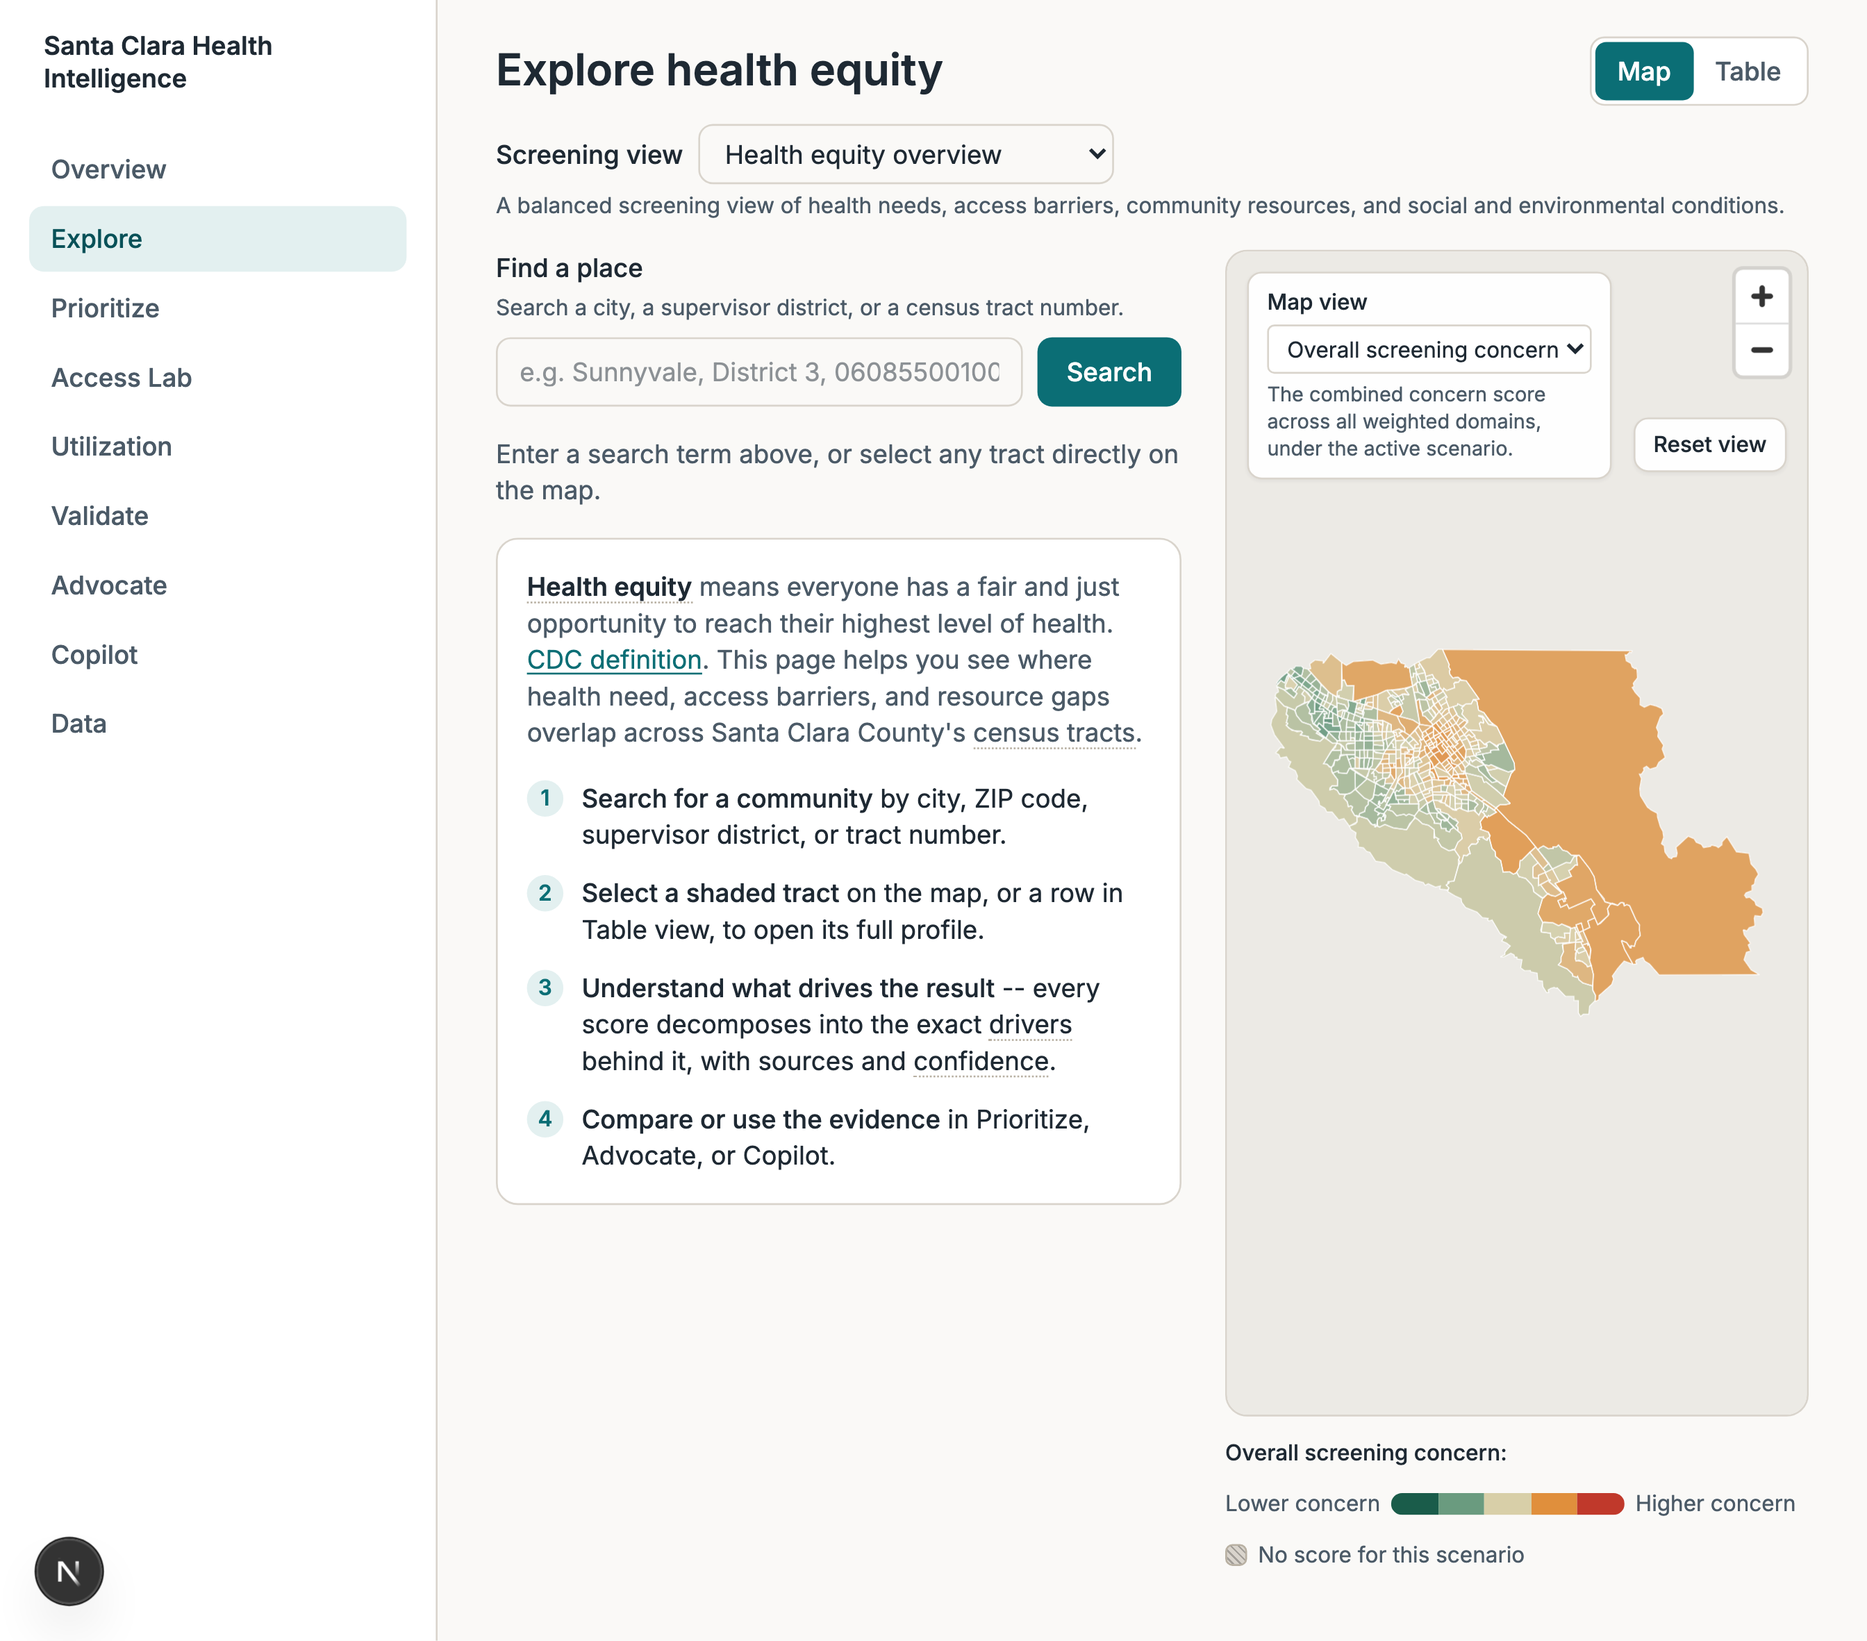
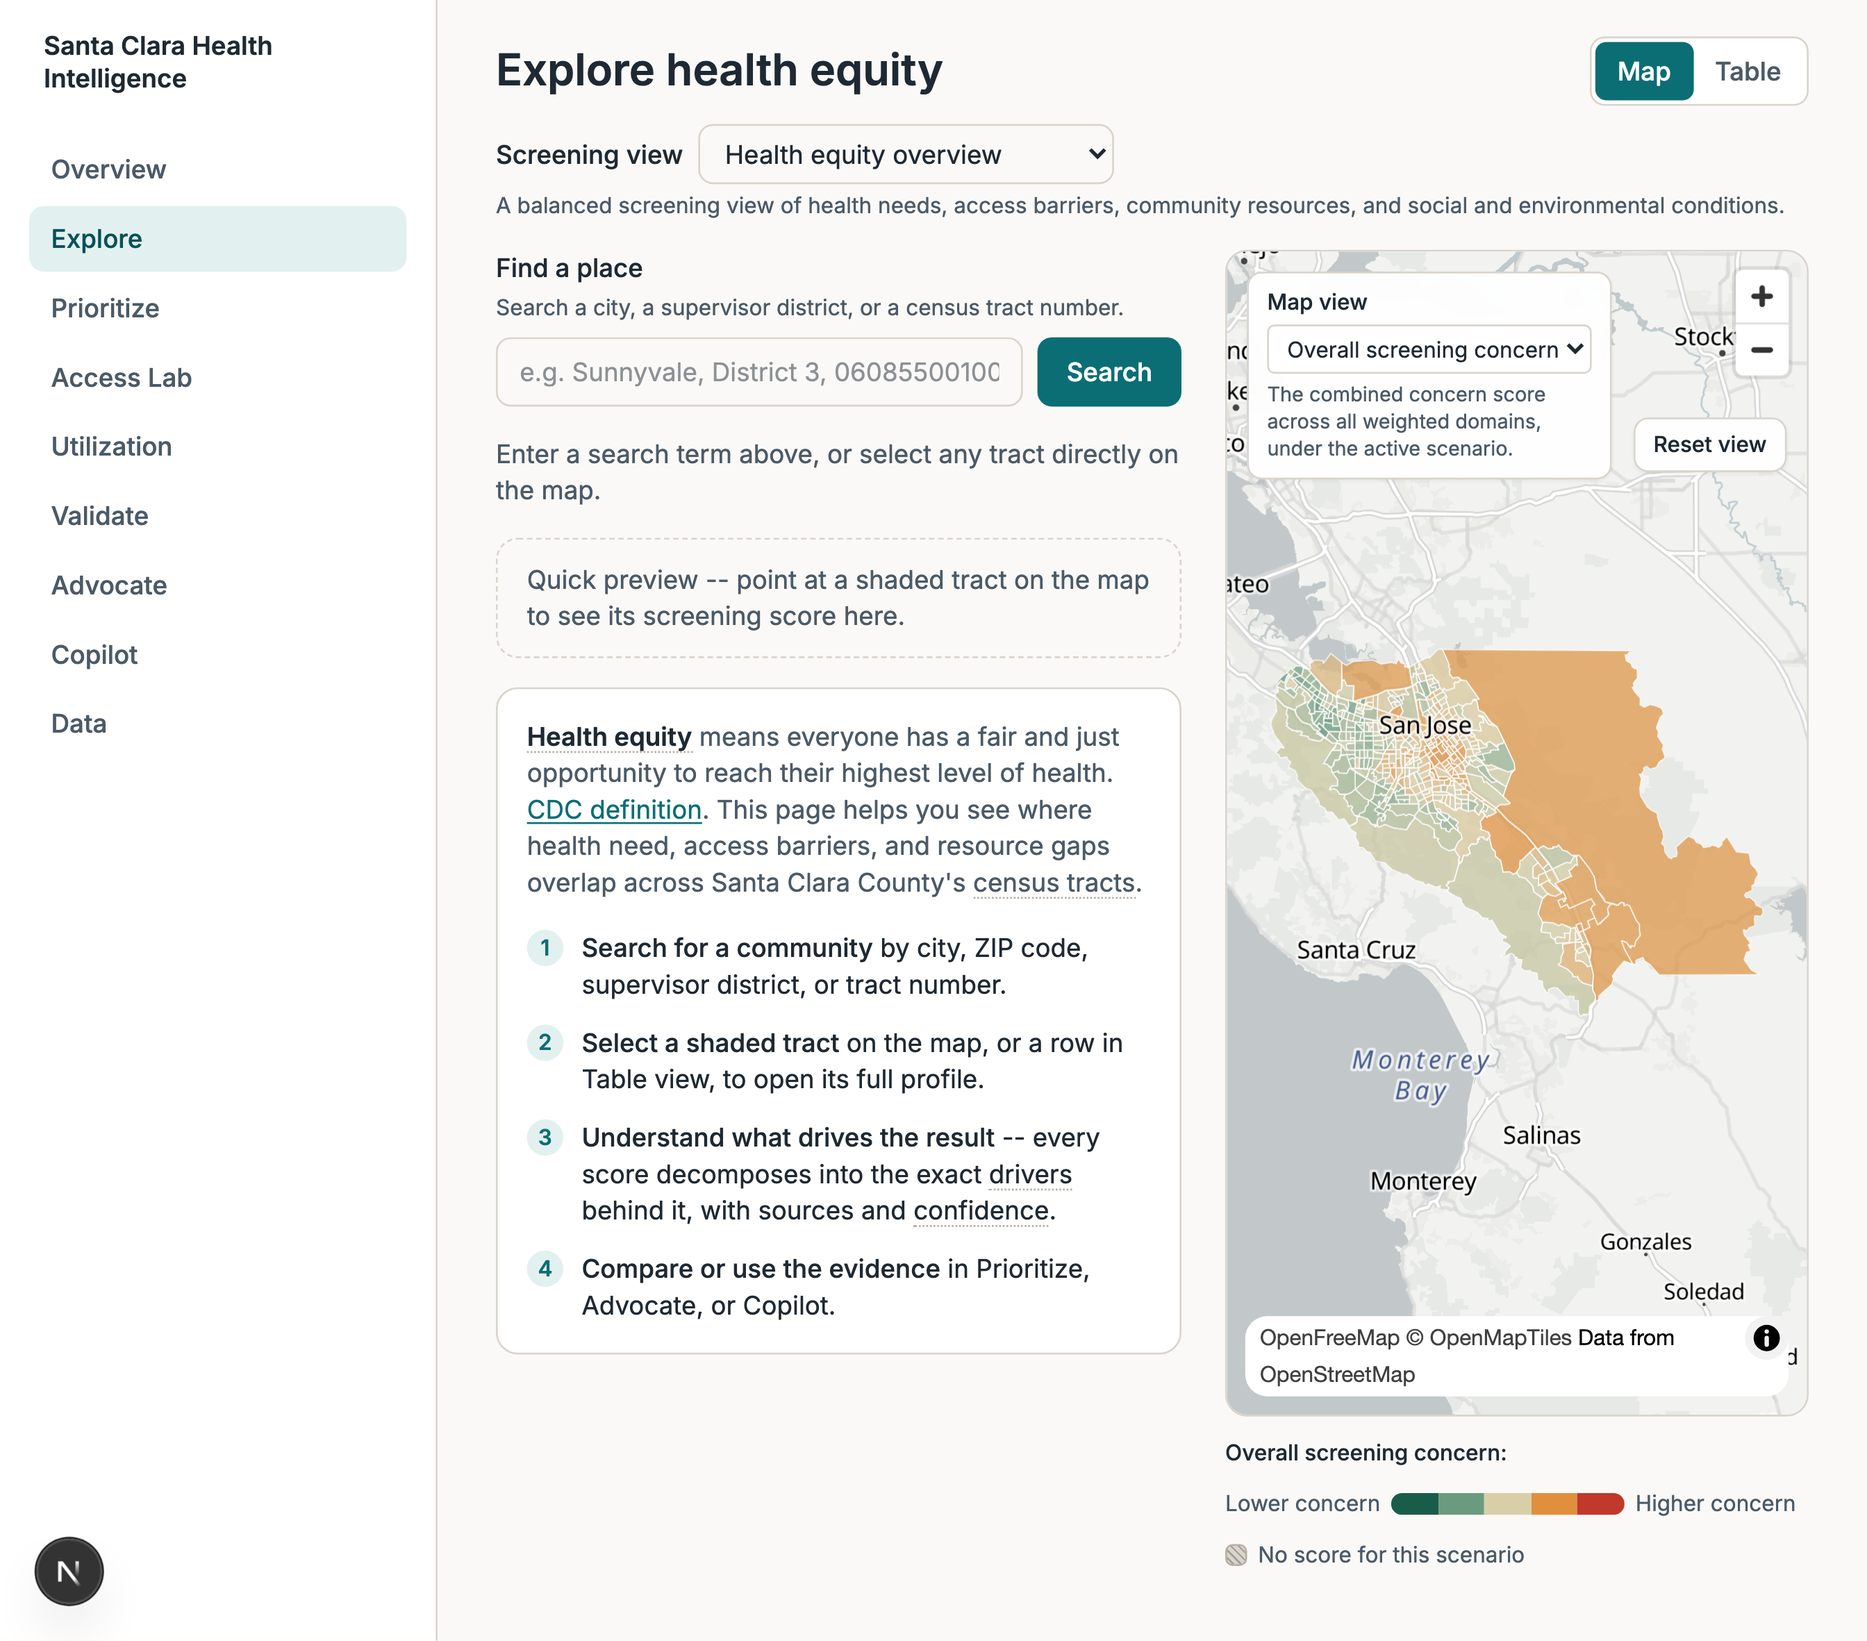
Complete usability, accessibility, and visual verification
Three independent blind usability-review subagents (desktop Explore,
mobile Explore, Prioritize/Compare), each given only screenshots, a
one-sentence product purpose, and a fixed question list -- no
implementation explanation. Two findings independently corroborated by
more than one reviewer, both fixed:

1. A genuine internal-consistency bug: three Prioritize rows all
   displayed "75/100" but two read "High concern" and one read
   "Moderate-to-high concern," because the concern band was computed
   from the raw unrounded score while the displayed number was rounded.
   Fixed by computing the band from the same rounded value in the one
   shared ScreeningScore component, so the fix applies everywhere.
2. "Higher screening concern than 100% of 408 tracts" read as a literal
   claim of being higher-concern than every tract including itself,
   especially next to a tie for rank #1. Reworded the >=99% case to
   "Among the highest screening concern of any tract in the county"
   without changing the underlying statistic.

Full verification: frontend lint/typecheck/98 unit tests, backend
ruff/mypy/470 pytest, production build (zero new dependencies), and the
complete Playwright suite (both desktop-chromium and mobile-chromium
projects) at 456 total / 426 passed / 30 skipped / 0 failed. One axe
flake (document-title) was isolated and confirmed non-reproducible (3
clean re-runs) before being excluded from the failure count.
[…]

diff --git a/docs/design/final-score-map-and-intuitiveness-review.md b/docs/design/final-score-map-and-intuitiveness-review.md
@@ -1,0 +1,180 @@
+# Final Score, Map-Context, and Product-Intuitiveness Pass — Visual & Usability Review
+
+Companion to [health-equity-product-consolidation.md](./health-equity-product-consolidation.md) (prior pass)
+and [docs/methods/screening-score-interpretation.md](../methods/screening-score-interpretation.md) (the
+required scientific trace of the score, written before it was elevated visually). This document records
+what changed in this pass, what independent blind usability review found, and what was fixed as a result.
+
+## 1. What this pass changed, in one paragraph
+
+The 0-100 composite score — traced, bounded, and documented in the methods doc — is now the product's single
+objective headline number, rendered everywhere through one shared component (`packages/ui/src/
+ScreeningScore.tsx`) instead of five independent, inconsistently-rounded formatting call sites. The map
+gained real geographic context (a free, keyless OpenStreetMap-derived basemap with city/road/water labels,
+inserted below the choropleth so labels are never covered) where previously it rendered on a completely
+blank background. Hover now updates a sidebar "Quick preview" while nothing is selected, keeping the map
+fully unobscured, and switches to a small non-blocking map callout once a tract is selected so the sidebar's
+open profile is never erased by hovering a neighbor. The top-3 driving factors gained a visual percentile
+track matching the domain rows. None of this touched scenario weights, internal scenario IDs, or the score
+formula itself.
+
+## 2. Screenshots inspected
+
+All from `docs/design/screenshots/`, regenerated by this pass's own Playwright run (2026-07-18):
+
+- **`explore-map__1440-desktop.png`** — county view, no selection. Real city labels (San Jose, Gilroy, Santa
+  Cruz, Watsonville, Hollister, Fremont), roads, water/coastline shading, "Quick preview" placeholder in the
+  sidebar, choropleth colors rendering above the basemap fill but below its labels.
+- **`explore-tract-detail__1440-desktop.png`** — a selected tract (06085503112) at close zoom. Real street
+  names (South 10th/11th, Story Road, Monterey Road, Willow Street), a neighborhood label ("SPARTAN KEYES"),
+  the tract's dashed selection outline, and a compact map callout ("06085503112 / 77/100 · High concern").
+  Sidebar shows the full headline hierarchy: `77/100` → `HEALTH EQUITY SCREENING SCORE` caption → `High
+  overlapping screening concern` → county-comparison sentence → always-visible non-causal disclaimer → 5
+  domain rows with visual bars → top-3 factors.
+- **`explore-tract-detail__390-mobile.png`** — same hierarchy in the bottom sheet; collapsed bar beneath
+  shows `77/100 · High concern · #1 countywide`.
+- **`prioritize__1440-desktop.png`** / **`prioritize__390-mobile.png`** — ranked table with `Score rank`,
+  `Health equity screening score` (compact `ScreeningScore`), `Data coverage`, `Stability` columns; scenario
+  radio list on the left.
+- Live-interaction screenshots captured directly in this pass (not part of the standing screenshot set):
+  the Explore comparison view (`?compare=1`) showing two tracts' scores side by side via the same compact
+  `ScreeningScore`, and a mid-zoom map view (Sunnyvale/Cupertino/San Jose/Milpitas/Campbell/Saratoga/Los
+  Gatos all labeled) confirming city labels scale correctly between county and neighborhood zoom.
+
+## 3. City-label and map-context behavior
+
+**Root cause found before implementing anything**: the map had no basemap at all — `style: { version: 8,
+sources: {}, layers: [{id: "bg", type: "background", ...}] }`. This is more severe than the task's assumed
+starting point ("labels exist but are hidden beneath the fill"); there were no labels, roads, or water to
+hide in the first place.
+
+**Solution implemented (Option A/B hybrid, per the task's own preference order)**: added OpenFreeMap's free,
+keyless, OSM-derived "positron" vector style (`https://tiles.openfreemap.org/styles/positron`) as the
+basemap, then inserted every tract layer (`fill`, `no-data-hatch`, `outline`) with `beforeId` set to the
+basemap's first symbol layer (`waterway_line_label`) so all 19 of the basemap's label layers — including
+`label_city`/`label_town` (min-zoom 3–9, OpenMapTiles' own population/importance-ranked place layer) —
+render above the choropleth. A dedicated custom label layer sourced from `geo.places` (real TIGER place
+centroids, already in the warehouse) was evaluated but judged unnecessary once the basemap's own city labels
+were verified live to already include all 11 target cities correctly prioritized (San Jose ranks first by
+real land area in the warehouse's own `geo.places.area_land_sqm`, confirming the basemap's own OSM-based
+importance ranking agrees with locally-held data). The selected-tract outline (`SELECTED_LAYER`) and the
+selected-place dashed boundary are deliberately appended **without** `beforeId`, staying above every label,
+so they remain visible even where a city/road label sits over the same tract.
+
+**Attribution**: `AttributionControl({ compact: true })` — MapLibre auto-collects "OpenFreeMap © OpenMapTiles
+Data from OpenStreetMap" from the tile source's own metadata. An earlier attempt to also hand-write a custom
+attribution string produced a visible duplicate credit line; removed once the auto-collected one was
+confirmed sufficient on its own.
+
+**A real, non-cosmetic bug found and fixed during implementation**: under React Strict Mode's dev-only
+double mount/cleanup/mount cycle, listening only for MapLibre's `load` event to set `mapReady` never fired
+for a *remote* style URL — the map still rendered tiles correctly, but `mapReady` silently stayed `false`
+forever, so the tract choropleth layer was never added. Fixed by also listening for `idle` and checking
+`isStyleLoaded()` synchronously as two additional, redundant readiness signals.
+
+**City-label acceptance criteria, verified live**: at county zoom, San Jose, Gilroy, Santa Cruz, Watsonville,
+Hollister, and Fremont are all labeled; at closer zoom (Sunnyvale/Cupertino level), more cities appear
+(Milpitas, Campbell, Saratoga, Los Gatos); at close, single-tract zoom, road names and a neighborhood label
+appear instead, with the selection outline remaining visually distinct throughout.
+
+## 4. Hover/selection interaction model — evaluated and chosen
+
+Per the task's request to evaluate at least three alternatives, not just keep the existing implementation:
+
+1. **Sidebar-docked hover preview** (chosen for the no-selection state): the map stays completely
+   unobscured; a "Quick preview" panel in the sidebar updates on hover, showing name, the canonical score
+   (compact `ScreeningScore`), top-2 domains, and a confidence flag when coverage is thin.
+2. **Collision-aware floating inspector** (the prior pass's design): kept, but only for the *selected* state,
+   and shrunk substantially (240px → 180px, dropped the "top domains" and "select for full profile" lines)
+   since with a profile already open in the sidebar, a hovered neighbor only needs a name and a concern
+   indicator, not a repeat of the sidebar's own job.
+3. **Tiny polygon callout plus sidebar preview** (the actual hybrid implemented): no-selection state uses
+   alternative 1; selected state uses a shrunk version of alternative 2 (`TinyHoverCallout`) so hovering a
+   different tract never erases the open profile.
+
+Verified live: hovering a tract with nothing selected updates only the sidebar, leaving the map's colors and
+labels fully visible with no floating card. Selecting a tract and then hovering a *different* tract keeps
+the sidebar's open profile intact and shows only a small map-anchored callout for the hovered tract.
+
+## 5. Score consistency audit
+
+Traced in [screening-score-interpretation.md](../methods/screening-score-interpretation.md); before this
+pass, the same underlying float was rounded to the nearest integer in Explore, one decimal in Prioritize, and
+two decimals in CSV exports, and the tract-detail "percentile" was actually a Monte Carlo median-rank
+transform rather than a percentile of the score itself (already correctly resolved in an earlier pass by
+removing the competing map-side number, and reaffirmed here as the one canonical comparison statistic).
+This pass centralizes every human-facing rendering through `ScreeningScore`/`formatScreeningScore`
+(`packages/ui/src/ScreeningScore.tsx`) in: Explore's headline, mobile collapsed bar, map hover/selection
+callouts, Prioritize's table and CSV-adjacent decision-memo preview, Explore's tract-to-tract comparison
+panel, and Advocate's server-side evidence label (`apps/api/.../services/advocacy_evidence.py`, updated to
+round to the same integer convention and use the same "Health equity screening score" label text). Raw,
+higher-precision values remain available in the CSV export and the "How this was calculated" disclosure,
+explicitly labeled as secondary/technical, never presented as a second competing headline number.
+
+**Prioritize's "Rank" column bug, found during the scientific trace, fixed**: the column previously used
+TanStack Table's `row.index`, which is fixed to the array's original (score-sorted) position and does not
+reflect a re-sort — functioning correctly by construction (since "rank" means score-rank, not "position in
+whatever the table happens to be sorted by right now") but was undocumented and easy to misread as a live
+position. Relabeled `Score rank` with an inline comment explaining the fixed, score-based meaning.
+
+## 6. Blind usability review — three independent reviewers, real findings acted on
+
+Per the task's explicit instruction not to treat approval as evidence, three cold subagent reviewers were
+each given only screenshots, a one-sentence product purpose, and a fixed question list — no implementation
+explanation. Reviewer 1 covered desktop Explore, Reviewer 2 covered mobile Explore, Reviewer 3 covered
+Prioritize and the county-comparison sentence.
+
+**Two findings independently corroborated by more than one reviewer, both fixed**:
+
+1. **A genuine internal-consistency bug** (Reviewer 3, unprompted): three tracts in the Prioritize table all
+   displayed `75/100` but two read "High concern" while one read "Moderate-to-high concern." Root cause: the
+   concern band was computed from the *raw* unrounded score while the displayed number was rounded, so a raw
+   74.6 (displays as "75") could fall on the wrong side of the 75.0 band threshold from a raw 75.4 (also
+   displays as "75"). Fixed by computing the band from `Math.round(score)` — the same value shown — in both
+   the visual band and the accessible name, inside the one shared `ScreeningScore` component, so the fix
+   applies everywhere at once. Verified live: rows #6/#7/#8 now all read "75/100 · High concern" consistently.
+2. **Confusing ceiling phrasing** (Reviewers 1 and 2, independently): "Higher screening concern than 100% of
+   408 Santa Clara County tracts" reads as a literal claim of being higher-concern than every tract
+   *including itself*, especially confusing next to a tie for rank #1 in the Prioritize table. The underlying
+   statistic (Monte Carlo median-rank percentile) is legitimate and unchanged; only the sentence at the ≥99%
+   boundary changes, to "Among the highest screening concern of any tract in the county, out of 408 Santa
+   Clara County tracts."
+
+**One additional fix from a single reviewer's specific, concrete point** (Reviewer 3): the 0–100 direction
+("higher = more concern") was stated on the Explore tract-detail page but never on the Prioritize table where
+the score first appears as a sortable column. Added a one-line restatement directly under the Prioritize
+results summary.
+
+**Findings disclosed as known limitations, not fixed this pass** (single-reviewer, lower-severity, or
+requiring larger redesign — see §7).
+
+## 7. Known limitations
+
+- The five domain percentile bars (`PercentileBar`) have no visible numeric scale or endpoint labels beyond
+  the text sentence beneath them (Reviewer 1). The text sentence already states direction and relative
+  position in words; adding numeric tick labels to the bar itself was judged a larger visual-design change
+  than this pass's time budget supports.
+- On mobile, the map is almost entirely covered by the expanded bottom sheet, so the selected tract's city
+  is not nameable from the sheet view alone (Reviewer 2) — an inherent tradeoff of the two-state mobile sheet
+  pattern validated in an earlier pass, not newly introduced here.
+- A floating circular "N" button in the bottom-left corner of every screenshot (an unrelated, pre-existing
+  UI element, not part of this pass's scope) partially overlaps map/table content at some scroll positions
+  on mobile, per both Reviewer 1 and Reviewer 2. Not investigated or changed, since it predates and is
+  unrelated to the score/map/hover work in scope here.
+- "Data coverage" and "Stability" column headers in Prioritize have no inline tooltip explaining them
+  (Reviewer 3) — both concepts are explained in Validate's methods panel and in the tract-detail confidence
+  section, but not inline in the table itself.
+- Rank numbers in Prioritize remain strict ordinals even when scores tie (e.g., #1 and #2 both at 77) —
+  disclosed in the methods doc §10 as a pre-existing, cross-cutting tie-break inconsistency in the backend
+  (three different tie-break rules across different API routes), not something this UX-focused pass changed.
+- No dedicated screenshot exists for a full side-by-side tract Compare view or backend-waking/unavailable
+  states in the permanent screenshot set for this specific pass (a live-interaction screenshot of Compare was
+  captured and inspected directly instead, per §2; those states are covered by existing Playwright
+  assertions rather than static screenshots, consistent with the prior pass's approach).
+
+## 8. Final verification numbers
+
+See the final report for the authoritative numbers. The last full Playwright run reflecting every fix in
+this document: both `desktop-chromium` and `mobile-chromium` projects, 0 failures (exact count in the final
+report). One flake was investigated and confirmed non-reproducible (an axe `document-title` violation that
+failed once under parallel-worker load and passed cleanly in 3 subsequent isolated re-runs).
